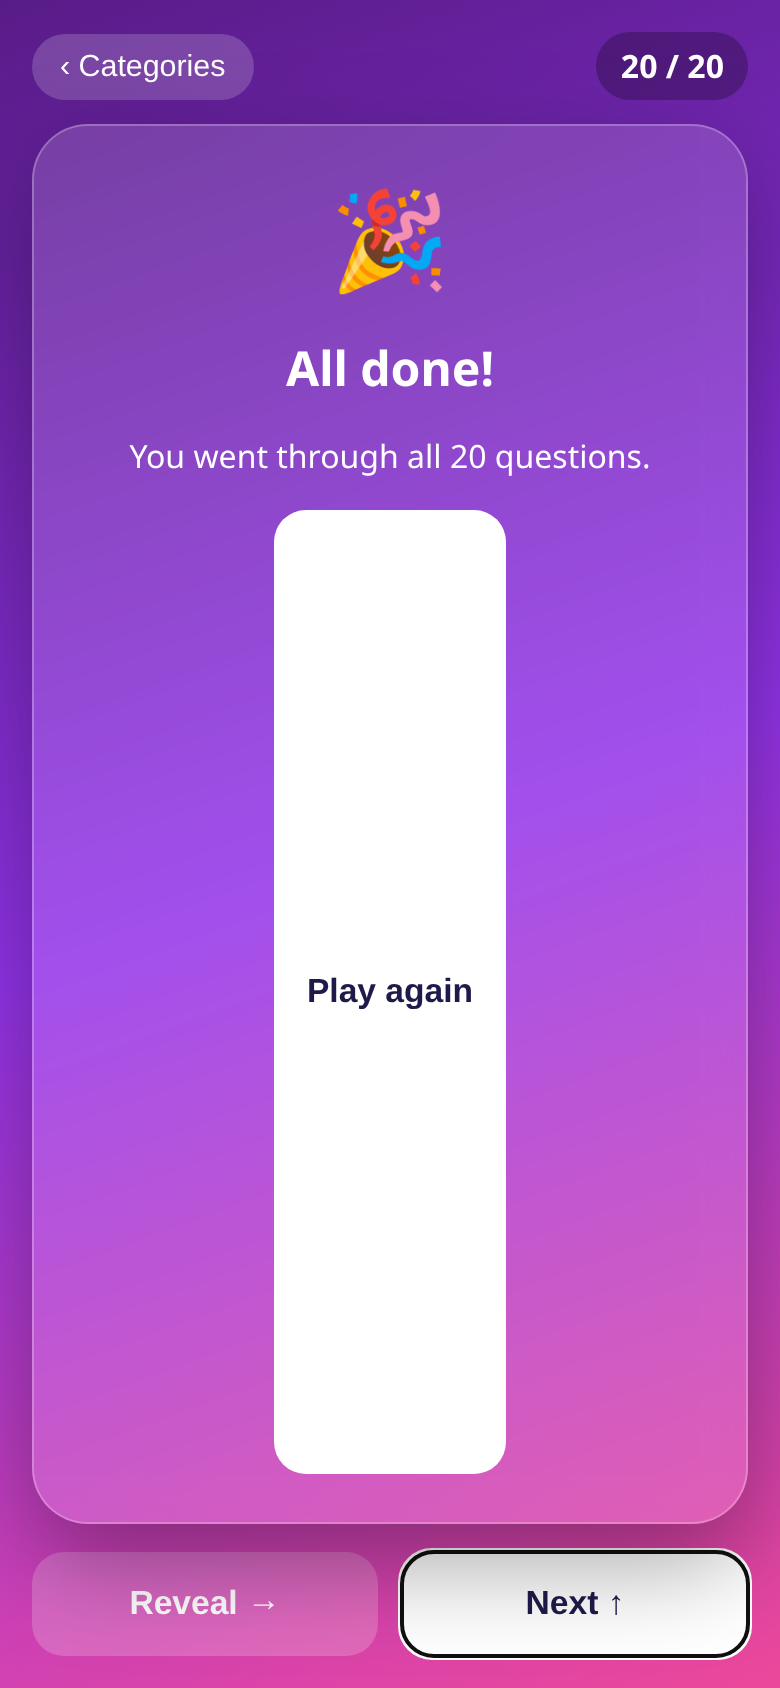
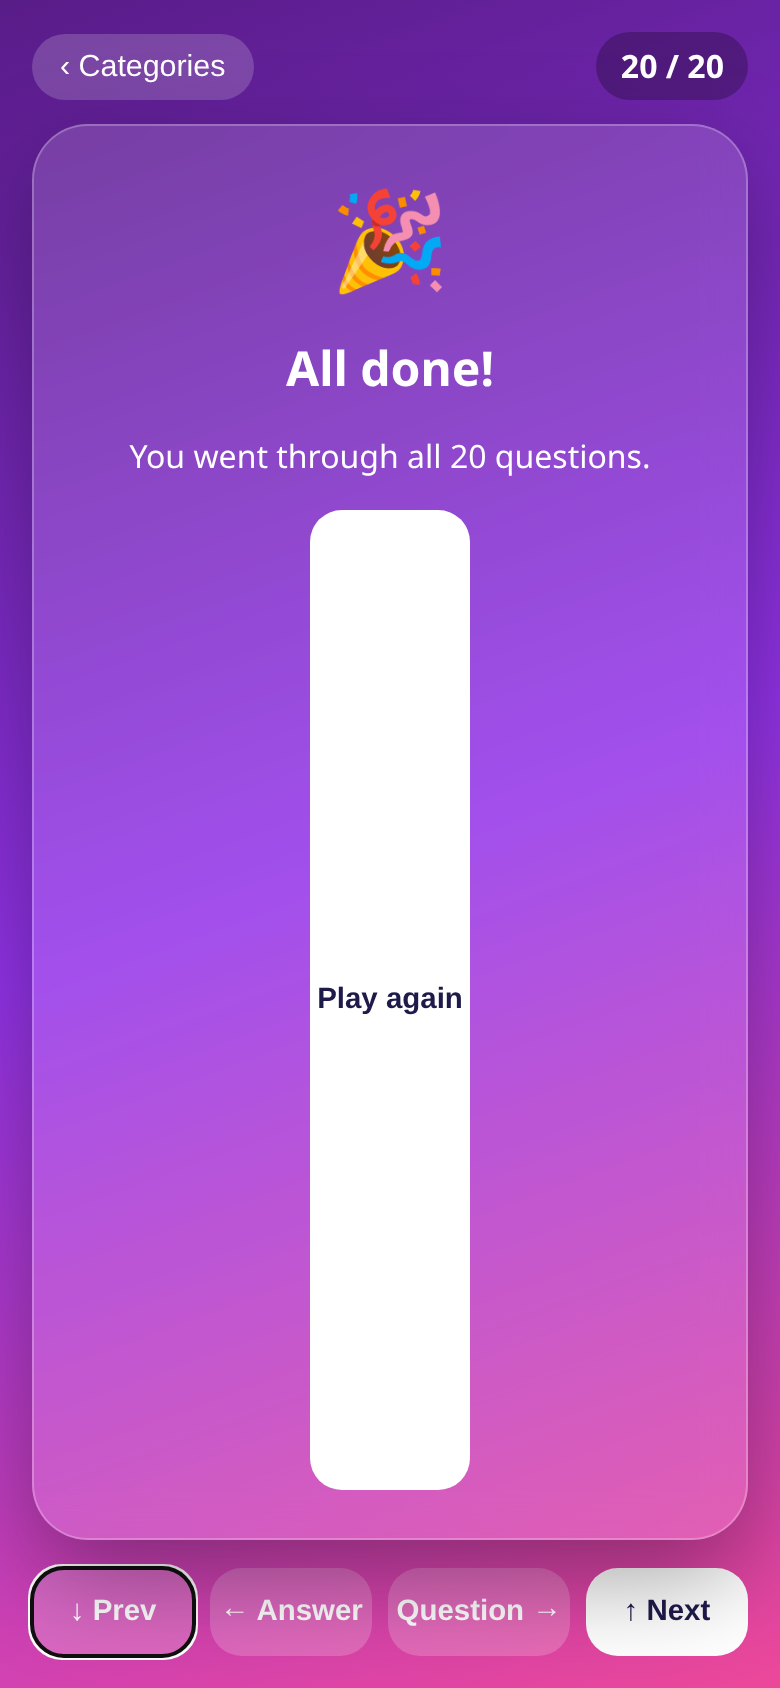
Gestures: left=answer, right=question, up=next, down=previous with history; 4 buttons

Changed region(s): [[0.0308, 0.2773, 0.9846, 0.9858], [0.0308, 0.8626, 0.0615, 0.8934]]

diff --git a/app.js b/app.js
@@ -30,22 +30,28 @@ function render(){
   $("q").textContent=it.question;$("a").textContent=it.answer;$("ex").textContent=it.explanation;
   $("progress").textContent=`${i+1} / ${deck.length}`;
 }
-function reveal(){if(i<deck.length){flipped=!flipped;$("card").classList.toggle("flipped",flipped)}}
-function next(){if(i>=deck.length)return;const c=$("card");c.style.transform="translateY(-120%) rotate(-4deg)";c.style.opacity=0;
-  setTimeout(()=>{i++;c.classList.add("drag");c.style.transform="translateY(30%)";render();
-    requestAnimationFrame(()=>requestAnimationFrame(()=>{c.classList.remove("drag");c.style.transform="";c.style.opacity=1}))},250)}
-$("reveal").onclick=reveal;$("next").onclick=next;$("back").onclick=()=>{show("home");renderCats()};
+// i indexes the fixed shuffled deck, so it doubles as the history: prev returns the exact earlier question
+function setFlip(v){if(i>=deck.length||flipped===v)return;flipped=v;$("card").classList.toggle("flipped",v)}
+const reveal=()=>setFlip(true), unreveal=()=>setFlip(false);
+let busy=false;
+function go(d){const c=$("card");
+  if(busy||(d>0&&i>=deck.length))return;
+  if(d<0&&i<=0){c.animate([{transform:"translateY(0)"},{transform:"translateY(24px)"},{transform:"translateY(0)"}],{duration:300,easing:"ease-out"});return}
+  busy=true;c.style.transform=`translateY(${d>0?-120:120}%) rotate(${d>0?-4:4}deg)`;c.style.opacity=0;
+  setTimeout(()=>{i+=d;c.classList.add("drag");c.style.transform=`translateY(${d>0?30:-30}%)`;render();
+    requestAnimationFrame(()=>requestAnimationFrame(()=>{c.classList.remove("drag");c.style.transform="";c.style.opacity=1;busy=false}))},250)}
+const next=()=>go(1), prev=()=>go(-1);
+$("reveal").onclick=reveal;$("unreveal").onclick=unreveal;$("next").onclick=next;$("prev").onclick=prev;
+$("back").onclick=()=>{show("home");renderCats()};
 document.addEventListener("keydown",e=>{if(!$("play").classList.contains("active"))return;
-  if(e.key==="ArrowRight"){e.preventDefault();reveal()}
-  else if(["ArrowUp","ArrowDown"," "].includes(e.key)){e.preventDefault();next()}
-  else if(e.key==="Escape")$("back").click()});
-// swipe: right = reveal/flip back, up = next, left = nothing
+  const m={ArrowLeft:reveal,ArrowRight:unreveal,ArrowUp:next," ":next,ArrowDown:prev,Escape:()=>$("back").click()}[e.key];
+  if(m){e.preventDefault();m()}});
+// swipe: left=answer, right=question, up=next, down=prev
 let sx=0,sy=0,dx=0,dy=0,down=false;const card=$("card");
-card.addEventListener("pointerdown",e=>{down=true;sx=e.clientX;sy=e.clientY;dx=dy=0;card.classList.add("drag");try{card.setPointerCapture(e.pointerId)}catch(_){}});
+card.addEventListener("pointerdown",e=>{if(busy)return;down=true;sx=e.clientX;sy=e.clientY;dx=dy=0;card.classList.add("drag");try{card.setPointerCapture(e.pointerId)}catch(_){}});
 card.addEventListener("pointermove",e=>{if(!down)return;dx=e.clientX-sx;dy=e.clientY-sy;
-  if(dx>0&&dx>Math.abs(dy))card.style.transform=`translateX(${dx*.4}px) rotate(${dx*.03}deg)`;
-  else if(dy<0&&-dy>Math.abs(dx))card.style.transform=`translateY(${dy*.5}px)`;
-  else card.style.transform=""});
+  card.style.transform=Math.abs(dx)>Math.abs(dy)?`translateX(${dx*.4}px) rotate(${dx*.03}deg)`:`translateY(${dy*.5}px)`});
 const end=()=>{if(!down)return;down=false;card.classList.remove("drag");card.style.transform="";
-  if(dx>60&&dx>Math.abs(dy))reveal();else if(dy<-60&&-dy>Math.abs(dx))next();dx=dy=0};
+  const h=Math.abs(dx)>Math.abs(dy);
+  if(h&&dx<-60)reveal();else if(h&&dx>60)unreveal();else if(!h&&dy<-60)next();else if(!h&&dy>60)prev();dx=dy=0};
 card.addEventListener("pointerup",end);card.addEventListener("pointercancel",end);

diff --git a/index.html b/index.html
@@ -13,10 +13,10 @@
   </div>
   <div class="stage"><div id="doneBox" class="face" style="display:none;position:relative;flex:1"></div><div id="card" class="card"><div class="inner">
     <div class="face front"><div class="meta"><span id="cat" class="chip"></span><span id="diff" class="badge"></span></div>
-      <div id="q" class="q"></div><div class="hint">swipe right → to reveal · swipe up ↑ for next</div></div>
+      <div id="q" class="q"></div><div class="hint">← swipe left for answer · ↑ next · ↓ previous</div></div>
     <div class="face back"><div class="meta"><span class="chip">Answer</span><span id="diff2" class="badge"></span></div>
-      <div id="a" class="a"></div><div id="ex" class="ex"></div><div class="hint">swipe right → to flip back · swipe up ↑ for next</div></div>
+      <div id="a" class="a"></div><div id="ex" class="ex"></div><div class="hint">swipe right → for question · ↑ next · ↓ previous</div></div>
   </div></div></div>
-  <div class="controls"><button id="reveal" class="btn">Reveal →</button><button id="next" class="btn primary">Next ↑</button></div>
+  <div class="controls"><button id="prev" class="btn">↓ Prev</button><button id="reveal" class="btn">← Answer</button><button id="unreveal" class="btn">Question →</button><button id="next" class="btn primary">↑ Next</button></div>
 </section>
 <script src="app.js"></script></body></html>

diff --git a/style.css b/style.css
@@ -29,7 +29,7 @@ header p{opacity:.75;margin-top:6px}
 .a{margin-top:auto;font-size:clamp(1.6rem,8vw,2.4rem);font-weight:800;color:#fde68a}
 .ex{margin:16px 0 auto;font-size:1.05rem;line-height:1.5;opacity:.92}
 .hint{text-align:center;font-size:.8rem;opacity:.6;margin-top:12px}
-.controls{display:flex;gap:12px;margin-top:14px}
-.btn{flex:1;border:0;border-radius:16px;padding:16px;font-size:1.05rem;font-weight:700;background:rgba(255,255,255,.2);color:#fff;cursor:pointer}
+.controls{display:flex;gap:8px;margin-top:14px}
+.btn{flex:1;border:0;border-radius:16px;padding:14px 4px;font-size:.92rem;white-space:nowrap;font-weight:700;background:rgba(255,255,255,.2);color:#fff;cursor:pointer}
 .btn.primary{background:#fff;color:#1e1b4b}
 .done{flex:1;display:flex;flex-direction:column;align-items:center;justify-content:center;text-align:center;gap:16px}
